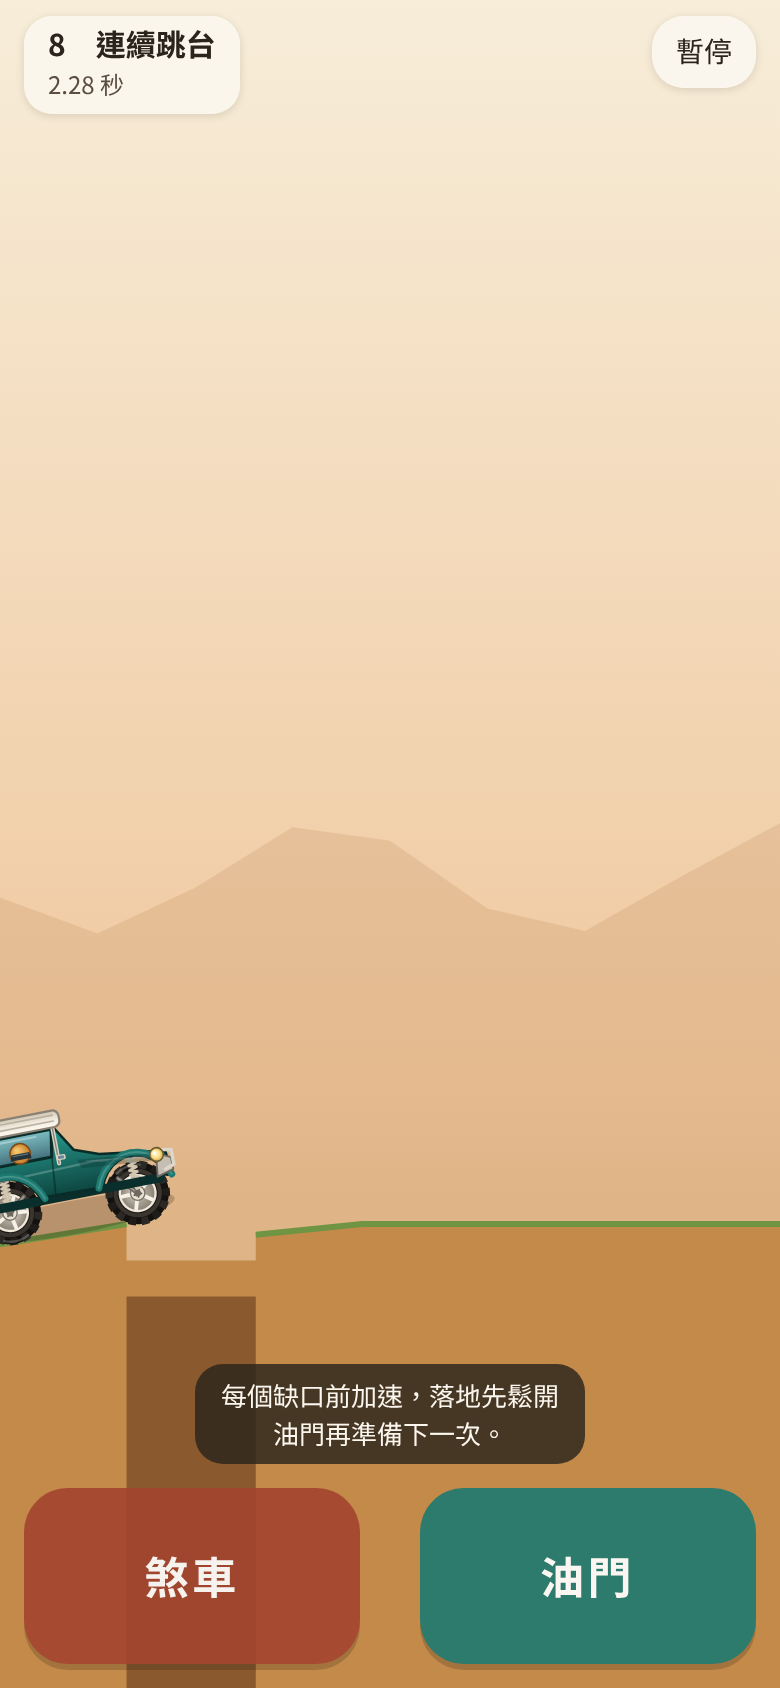
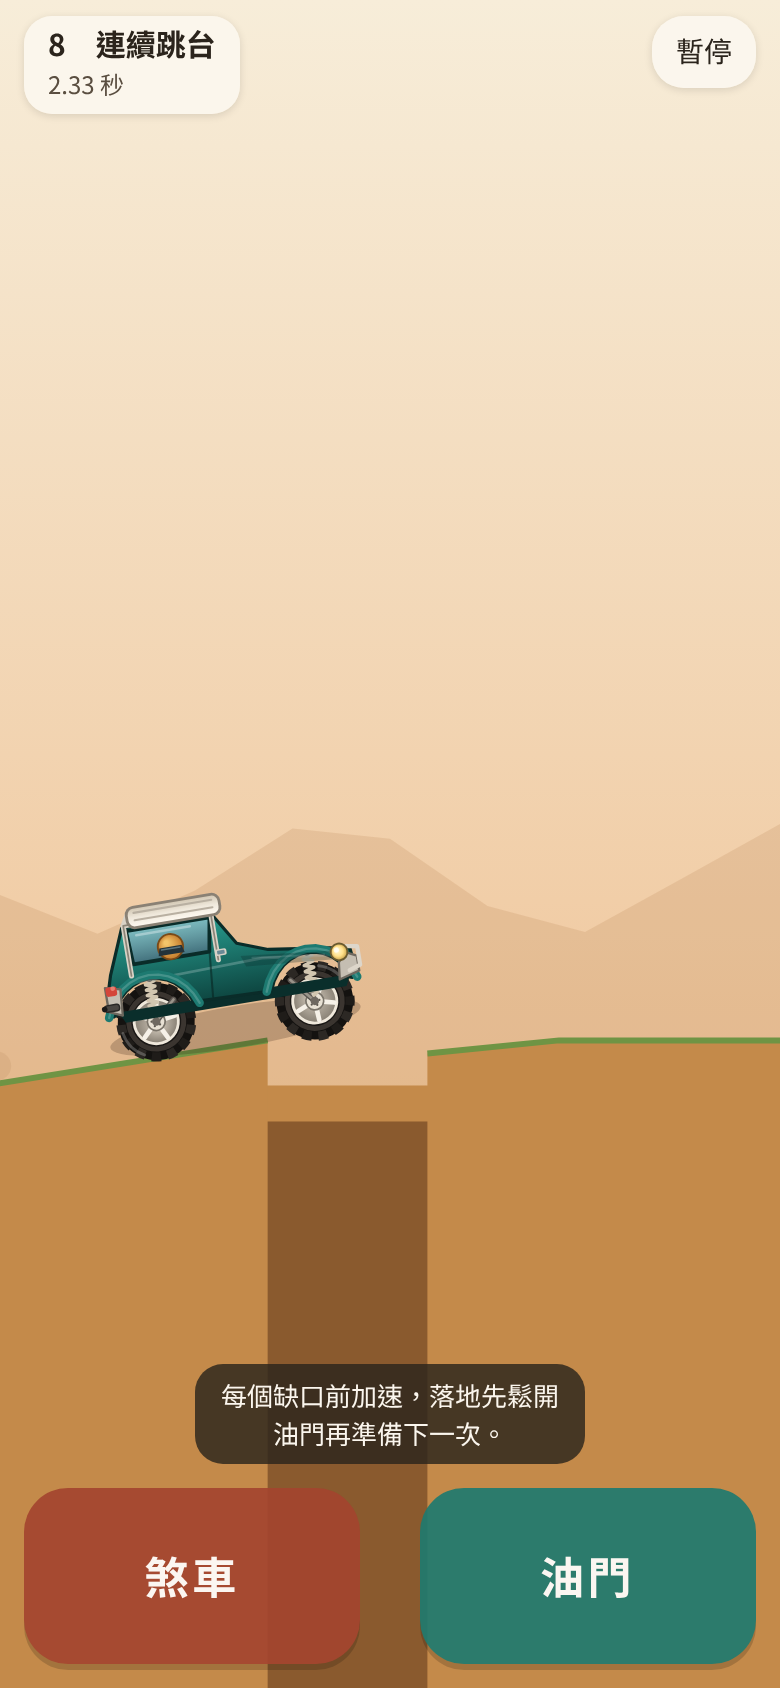
Keep the whole car on screen with portrait-aware camera framing.
Anchor the vehicle around the left third of a phone screen, add a light
velocity look-ahead, and clamp to the car's bounds so it is never cropped.
Portrait zoom is slightly tighter so the buggy reads larger while still
showing the road ahead. Physics and beatability are unchanged.

Changed region(s): [[0.0, 0.5237, 1.0, 1.0], [0.0923, 0.0308, 0.1231, 0.0616]]

diff --git a/game.js b/game.js
@@ -694,7 +694,7 @@
   let gasHeld = false, brakeHeld = false;
   let reversing = false, revHoldT = 0, revReady = false, brakePrev = false;
   let vfx = [];
-  let camX = 0, camY = 1.2, result = null;
+  let camX = 0, camY = 1.2, camAx = 0.33, camAy = 0.56, result = null;
   let brokenCount = 0, cargoLost = false;
   let acc = 0, lastTs = 0;
   let inputAt = 0, motorAt = 0; // 延遲量測
@@ -714,7 +714,16 @@
     canvas.height = Math.round(h * dpr);
     ctx.setTransform(dpr, 0, 0, dpr, 0, 0);
     viewW = w; viewH = h;
-    ppm = Math.max(38, Math.min(58, w / 15));
+    if (h > w * 1.15) {
+      // 直式手機：略為拉近，讓車體更大，同時還留得出前方路面
+      ppm = Math.max(44, Math.min(54, w / 8.3));
+    } else {
+      ppm = Math.max(36, Math.min(56, Math.min(w / 15.5, h / 9.5)));
+    }
+  }
+
+  function isPortrait() {
+    return viewH > viewW * 1.15;
   }
 
   function destroyWorld() {
@@ -741,6 +750,7 @@
     if (!opts.keepContinueUsed) { continueUsed = false; hideContinueBtn(); }
 
     for (let i = 0; i < 45; i++) { world.step(CFG.TICK, CFG.VEL_IT, CFG.POS_IT); world.clearForces(); }
+    if (car) snapCam();
     world.on("post-solve", function (contact, impulse) {
       const im = impulse && impulse.normalImpulses ? impulse.normalImpulses[0] : 0;
       if (!(im > 0)) return;
@@ -939,19 +949,128 @@
   }
 
   // ---------- 繪製 ----------
-  function wx(x) { return (x - camX) * ppm + viewW * 0.38; }
-  function wy(y) { return viewH * 0.68 - (y - camY) * ppm; }
+  function wx(x) { return (x - camX) * ppm + viewW * camAx; }
+  function wy(y) { return viewH * camAy - (y - camY) * ppm; }
 
-  function updateCam(alpha) {
+  function vehicleAABB() {
+    const box = { minX: Infinity, maxX: -Infinity, minY: Infinity, maxY: -Infinity };
+    function add(x, y) {
+      if (x < box.minX) box.minX = x;
+      if (x > box.maxX) box.maxX = x;
+      if (y < box.minY) box.minY = y;
+      if (y > box.maxY) box.maxY = y;
+    }
+    function addLocal(body, lx, ly) {
+      if (!body) return;
+      const p = body.getWorldPoint({ x: lx, y: ly });
+      add(p.x, p.y);
+    }
+    if (car && car.chassis) {
+      // 含牛欄、排氣管與車頂的外輪廓，再留一點餘裕
+      const corners = [
+        [-1.42, -0.35], [1.50, -0.35], [1.50, 0.95], [-1.42, 0.95]
+      ];
+      for (let i = 0; i < corners.length; i++) addLocal(car.chassis, corners[i][0], corners[i][1]);
+    }
+    [car.rear, car.front].forEach(function (w) {
+      if (!w || !w.body) return;
+      const p = w.body.getPosition();
+      const r = CFG.WHEEL_R * 1.16;
+      add(p.x - r, p.y - r); add(p.x + r, p.y + r);
+    });
+    if (car.roof) {
+      const p = car.roof.getPosition();
+      add(p.x - 0.58, p.y - 0.16); add(p.x + 0.58, p.y + 0.20);
+    }
+    if (car.cargo) {
+      car.cargo.forEach(function (c) {
+        if (!c || !c.body) return;
+        const p = c.body.getPosition();
+        add(p.x - 0.24, p.y - 0.24); add(p.x + 0.24, p.y + 0.24);
+      });
+    }
+    return box;
+  }
+
+  function camPads() {
+    return {
+      l: 16,
+      r: 16,
+      t: 70,
+      b: Math.min(viewH * 0.24, isPortrait() ? 150 : 96)
+    };
+  }
+
+  function clampCam(cx, cy, ax, ay, box) {
+    const pads = camPads();
+    const maxCx = box.minX + (viewW * ax - pads.l) / ppm;
+    const minCx = box.maxX - (viewW * (1 - ax) - pads.r) / ppm;
+    if (minCx <= maxCx) cx = Math.max(minCx, Math.min(maxCx, cx));
+    else cx = (box.minX + box.maxX) * 0.5;
+    const minCy = box.maxY - (viewH * ay - pads.t) / ppm;
+    const maxCy = box.minY + (viewH * (1 - ay) - pads.b) / ppm;
+    if (minCy <= maxCy) cy = Math.max(minCy, Math.min(maxCy, cy));
+    else cy = (box.minY + box.maxY) * 0.5;
+    return { x: cx, y: cy };
+  }
+
+  function snapCam() {
+    updateCam(1, true);
+  }
+
+  function updateCam(alpha, snap) {
     if (!car) return;
+    const portrait = isPortrait();
     const p = car.chassis.getPosition();
     const v = car.chassis.getLinearVelocity();
-    const look = Math.max(2.5, Math.min(7, 3 + v.x * 0.35));
-    const tx = p.x + look * 0.55;
-    const ty = p.y + 0.4;
-    const k = 1 - Math.pow(0.001, Math.max(0.001, alpha || 0.016));
-    camX += (tx - camX) * Math.min(1, k * 8);
+    const goingLeft = v.x < -0.85 || (reversing && v.x < 0.15);
+    const baseAx = portrait ? 0.33 : 0.36;
+    let ax = goingLeft ? (1 - baseAx) : baseAx;
+    const speed = Math.abs(v.x);
+    // 車體本身已在畫面 30–35%，只需依速度做很小的前視，避免被推到左緣
+    const leadT = Math.max(0, Math.min(1, (speed - 2) / 12));
+    ax += (goingLeft ? 1 : -1) * leadT * 0.02; // 0.33 → 約 0.31
+    const lookX = Math.max(0, Math.min(0.45, speed * 0.04)) * (goingLeft ? -1 : 1);
+    let tx = p.x + lookX;
+    let pitch = car.chassis.getAngle();
+    while (pitch > Math.PI) pitch -= Math.PI * 2;
+    while (pitch < -Math.PI) pitch += Math.PI * 2;
+    let lookY = portrait ? 0.22 : 0.32;
+    lookY += Math.max(-0.9, Math.min(1.3, v.y * 0.28));
+    if (pitch > 0.12) lookY += Math.min(1.1, pitch * 1.05);
+    if (pitch < -0.12) lookY += Math.max(-1.0, pitch * 0.9);
+    let ty = p.y + lookY;
+    const ay = portrait ? 0.54 : 0.62;
+    const box = vehicleAABB();
+    const cl = clampCam(tx, ty, ax, ay, box);
+    tx = cl.x; ty = cl.y;
+    if (snap) {
+      camX = tx; camY = ty; camAx = ax; camAy = ay;
+      return;
+    }
+    const k = 1 - Math.pow(0.001, Math.max(0.001, alpha || CFG.TICK));
+    camX += (tx - camX) * Math.min(1, k * 7);
     camY += (ty - camY) * Math.min(1, k * 6);
+    camAx += (ax - camAx) * Math.min(1, k * 5);
+    camAy += (ay - camAy) * Math.min(1, k * 5);
+    const held = clampCam(camX, camY, camAx, camAy, box);
+    camX = held.x; camY = held.y;
+  }
+
+  function camFraming() {
+    if (!car) return null;
+    const box = vehicleAABB();
+    const pads = camPads();
+    const left = wx(box.minX), right = wx(box.maxX);
+    const top = wy(box.maxY), bottom = wy(box.minY);
+    const mid = wx((box.minX + box.maxX) * 0.5);
+    return {
+      ppm: ppm, viewW: viewW, viewH: viewH, camAx: camAx, camAy: camAy,
+      left: left, right: right, top: top, bottom: bottom, mid: mid,
+      pads: pads,
+      clipped: left < pads.l - 0.5 || right > viewW - pads.r + 0.5 ||
+        top < pads.t - 0.5 || bottom > viewH - pads.b + 0.5
+    };
   }
 
   function drawSky() {
@@ -2040,7 +2159,8 @@
         x: p.x, y: p.y, vx: v.x, vy: v.y, gas: gasHeld, brake: brakeHeld,
         broken: brokenCount, cargoLost: cargoLost, fps: fpsNow,
         result: result, adsPaused: adsPaused, reversing: !!reversing,
-        revReady: !!revReady, revHoldT: revHoldT
+        revReady: !!revReady, revHoldT: revHoldT,
+        cam: camFraming()
       };
     },
     pressGas: function (v) { setGas(!!v); },

diff --git a/run-log.md b/run-log.md
@@ -66,3 +66,7 @@
 煞車檢查（第 1 關平地）：停穩後按住 0.45 秒時 `reversing === false`、vx ≈ 0；按住約 0.95 秒後進入倒車，vx 為負，畫面出現「倒車」。前進中踩煞車不會立刻倒車；停穩放開再按一次則立即倒車。實跑幀率約 60.00 fps，輸入延遲仍在同一事件處理函式內生效。
 
 改前／改後手機截圖見 `screenshots/before/` 與 `screenshots/after/`（側視靜止、爬坡、滯空；另有陶罐關靜止圖）。
+
+## 2026-11-27 19:28 台北時間 — 鏡頭構圖
+
+直式手機鏡頭改為把整台車留在畫面內：車體約在畫面左側 30–35%，依速度做小幅前視，並以車輛外框夾制，避免再被裁切。直式略為拉近（約 47 ppm）。物理不變。`beatAll` 仍為 12／12，實跑約 60.00 fps。截圖見 `screenshots/after/phone-side.png`、`phone-slope.png`、`phone-air.png`。
